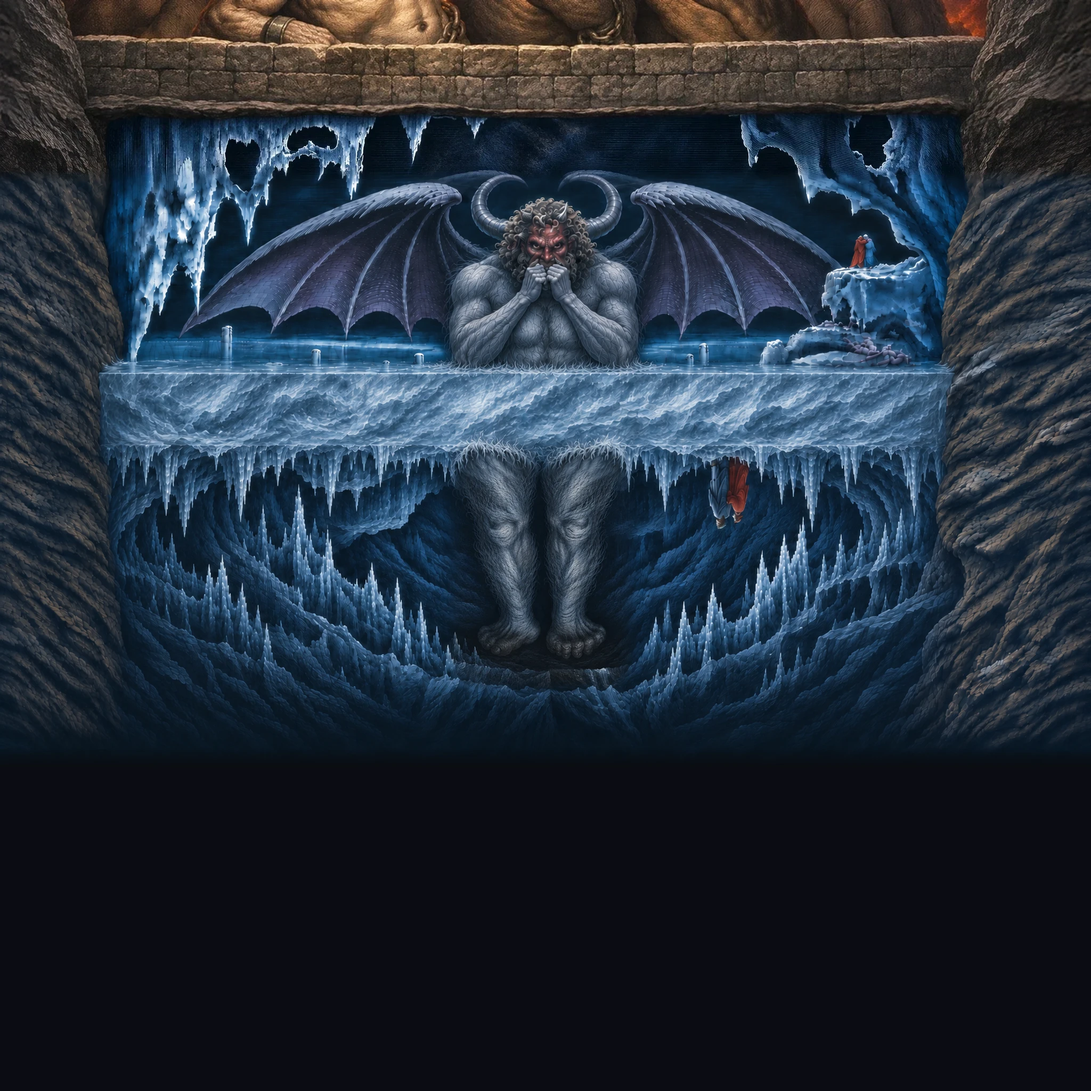
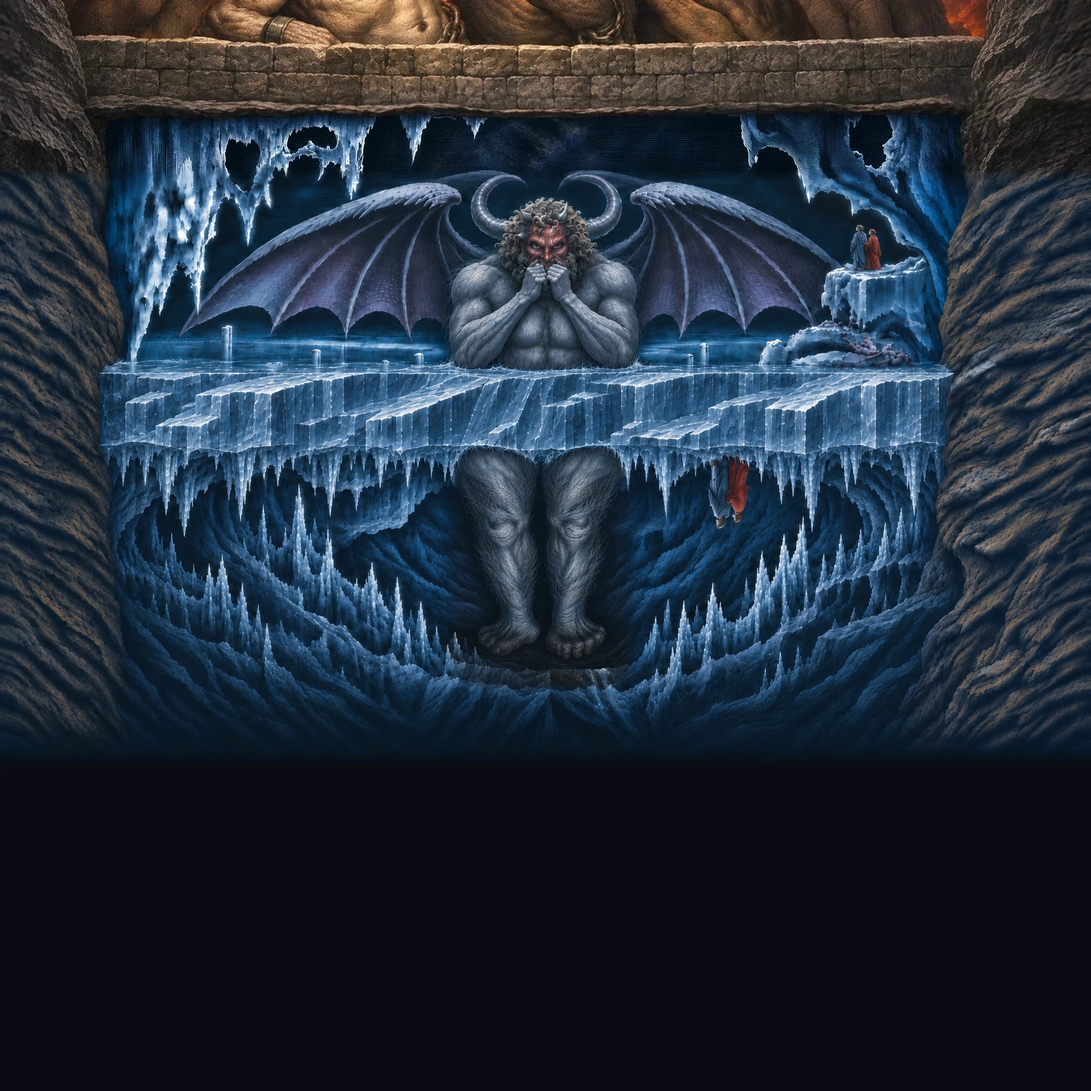
Sharpen the turn at the center: block ice, later zoom, staged loading
The view now waits a quarter of a screen past the foot of Hell, closes in,
goes down Lucifer's body and only then rolls over. The under-ice picture is
redrawn at twice the size with ice in angular blocks, and Dante and Virgil
face Lucifer. Only the map of Hell loads with the page; the other paintings
follow, with smaller copies on narrow screens.

diff --git a/src/components/JourneyScroller.tsx b/src/components/JourneyScroller.tsx
@@ -43,21 +43,23 @@ interface Measures {
     under: { left: number; top: number; width: number };
     /** How far the view moves from Lucifer to his legs in that picture */
     sink: { x: number; y: number };
-    /** How much larger his legs are in that picture than in the cavern at rest */
+    /** How far the view closes in on him */
+    closeUp: number;
+    /** How much larger his legs then are than in the cavern at rest */
     near: number;
   } | null;
 }
 
-/** How much larger Lucifer's legs are in the cavern than he is on the map of Hell */
-const CLOSE_UP = 3.2;
 /** Where the middle of his legs is in the picture of the cavern, as a share of its height, and how wide the pair is, as a share of its width */
 const LEGS = { middle: 0.812, width: 0.2344 };
 /** The same in the picture of him above and below the ice, which is square */
 const UNDER_ICE = { x: 0.4987, y: 0.5026, width: 0.1219 };
-/** How much closer the view presses in halfway through the roll, so the turning picture fills it */
-const ROLL_IN = 0.8;
+/** How wide the picture of him above and below the ice is when the view has closed in, in view heights */
+const CLOSE_UP = 3.2;
 /** The turn's three moves, as shares of its scroll: closing in, sinking under the ice, rolling over */
 const MOVES = { zoom: 0.3, dive: 0.62 };
+/** The scroll the turn takes up, and how far past the foot of Hell the page scrolls before it begins, in view heights */
+const TURN = { length: 2.2, pause: 0.25 };
 const ease = (t: number) => t * t * (3 - 2 * t);
 const clamp = (n: number, low: number, high: number) => Math.min(Math.max(n, low), high);
 
@@ -118,7 +120,9 @@ export default function JourneyScroller({ start, descent, climb, underIce: under
     else if (p > m.down) y = -m.down;
     world.current.style.transform = `translate3d(0, ${y}px, 0)`;
 
-    const t = m.across ? clamp((p - m.down) / m.across, 0, 1) : 1;
+    // The turn waits until the page is a little past the foot of Hell
+    const wait = m.turn ? m.view * TURN.pause : 0;
+    const t = m.across ? clamp((p - m.down - wait) / (m.across - wait), 0, 1) : 1;
     const hell = descentLeg.current;
     const rest = climbLeg.current;
     if (!hell || !rest) return;
@@ -139,25 +143,29 @@ export default function JourneyScroller({ start, descent, climb, underIce: under
       // The turn at the center of the earth, in three moves. The view closes in on Lucifer. It sinks
       // through the ice, and under it his legs hang down: the cavern, upside down, as it is seen
       // from Hell. Then the view rolls over about his legs, as Virgil does, and down becomes up.
-      const { lucifer, legs, under, sink: to, near } = m.turn;
+      const { lucifer, legs, under, sink: to, closeUp, near } = m.turn;
       const zoom = ease(clamp(t / MOVES.zoom, 0, 1));
       const sink = ease(clamp((t - MOVES.zoom) / (MOVES.dive - MOVES.zoom), 0, 1));
       const roll = ease(clamp((t - MOVES.dive) / (1 - MOVES.dive), 0, 1));
-      const scale = 1 + (CLOSE_UP - 1) * zoom;
+      const scale = 1 + (closeUp - 1) * zoom;
       const about = (point: { x: number; y: number }, what: string) =>
         `translate(${point.x}px, ${point.y}px) ${what} translate(${-point.x}px, ${-point.y}px)`;
       const moved = `translate(${-to.x * sink}px, ${-to.y * sink}px)`;
       const turned = `rotate(${180 * roll}deg)`;
       // The cavern's size through the roll: as large as the legs under the ice at first, its own at the end
-      const size = (near + (1 - near) * roll) * (1 + ROLL_IN * Math.sin(Math.PI * roll));
+      const size = near + (1 - near) * roll;
       const swap = ease(clamp((roll - 0.25) / 0.5, 0, 1));
       const still = t === 0 || t === 1;
-      show(hell, 1 - ease(clamp(roll / 0.3, 0, 1)), still ? '' : `${about(legs, turned)} ${moved} ${about(lucifer, `scale(${scale})`)}`);
+      // Hell is gone by the time the view is under the ice, so only the cavern turns
+      show(hell, 1 - ease(clamp((sink - 0.55) / 0.4, 0, 1)), still ? '' : `${about(legs, turned)} ${moved} ${about(lucifer, `scale(${scale})`)}`);
       show(rest, roll === 0 ? 0 : swap, still ? '' : about(legs.inClimb, `rotate(${180 + 180 * roll}deg) scale(${size})`));
       if (underIce.current) {
         // One picture carries the view from Lucifer down through the ice to his legs, then turns with it
         const shown = t === 1 ? 0 : ease(clamp((zoom - 0.7) / 0.3, 0, 1)) * (1 - swap);
         underIce.current.style.width = `${under.width}px`;
+        // Its top edge, where the giants stand over the lake, fades away on the way down
+        const faded = `linear-gradient(to right, transparent, black 5%, black 95%, transparent), linear-gradient(to bottom, transparent ${24 * sink}%, black ${34 * sink}%, black 94%, transparent)`;
+        underIce.current.style.maskImage = sink === 0 ? '' : faded;
         show(underIce.current, shown, `${about(legs, `${turned} scale(${size / near})`)} ${moved} translate(${under.left}px, ${under.top}px)`);
       }
       // A sharper picture of Lucifer comes in over the map as the view closes in on him
@@ -165,8 +173,9 @@ export default function JourneyScroller({ start, descent, climb, underIce: under
     }
     // The words beside the pictures step aside while the view turns
     world.current.toggleAttribute('data-turning', !!m.turn && t > 0.04 && t < 0.97);
-    const paradiso = stopAt('paradiso');
-    setCurrent(p < m.down + m.across / 2 ? 'inferno' : p < paradiso - m.view / 3 ? 'purgatorio' : 'paradiso');
+    // Mid-turn the legs are turned over and can't be measured: the realm changes halfway through
+    if (t > 0 && t < 1) setCurrent(t < 0.5 ? 'inferno' : 'purgatorio');
+    else setCurrent(t === 0 ? 'inferno' : p < stopAt('paradiso') - m.view / 3 ? 'purgatorio' : 'paradiso');
   }, [progress, stopAt]);
 
   const measure = useCallback(() => {
@@ -201,16 +210,19 @@ export default function JourneyScroller({ start, descent, climb, underIce: under
       const sceneEl = hellLeg.querySelector('[data-closeup]');
       const scene = sceneEl ? within(hellLeg, sceneEl) : null;
       if (scene) {
+        // Close enough that he is taller than the view, so the way down his body is a journey
+        const closeUp = (CLOSE_UP * view) / scene.width;
         const under = {
-          left: lucifer.x + CLOSE_UP * (scene.left - lucifer.x),
-          top: lucifer.y + CLOSE_UP * (scene.top - lucifer.y),
-          width: CLOSE_UP * scene.width,
+          left: lucifer.x + closeUp * (scene.left - lucifer.x),
+          top: lucifer.y + closeUp * (scene.top - lucifer.y),
+          width: closeUp * scene.width,
         };
         turn = {
           lucifer,
           legs,
           under,
           sink: { x: under.left + under.width * UNDER_ICE.x - legs.x, y: under.top + under.width * UNDER_ICE.y - legs.y },
+          closeUp,
           near: (under.width * UNDER_ICE.width) / (cavern.width * LEGS.width),
         };
       }
@@ -218,7 +230,7 @@ export default function JourneyScroller({ start, descent, climb, underIce: under
     measures.current = {
       view,
       down: Math.max(0, hell - view),
-      across: Math.round(view * (turn ? 2.2 : 0.9)),
+      across: Math.round(view * (turn ? TURN.length + TURN.pause : 0.9)),
       up: Math.max(0, rest - view),
       turn,
     };
@@ -262,6 +274,29 @@ export default function JourneyScroller({ start, descent, climb, underIce: under
       for (const type of ['wheel', 'touchstart', 'keydown', 'pointerdown']) window.removeEventListener(type, onTouch);
     };
   }, [measure, open, place]);
+
+  // Only the map of Hell comes with the page. The other paintings are fetched once it is in, or as
+  // soon as the visitor moves; narrow screens get smaller copies and skip the pictures of the turn.
+  useEffect(() => {
+    const fetchLater = () => {
+      const wide = window.matchMedia('(min-width: 1280px)').matches;
+      world.current?.querySelectorAll('[data-later]').forEach(el => {
+        if (el.hasAttribute('data-later-wide') && !wide) return;
+        const src = (!wide && el.getAttribute('data-later-small')) || el.getAttribute('data-later');
+        if (src) el.setAttribute(el instanceof HTMLImageElement ? 'src' : 'href', src);
+        el.removeAttribute('data-later');
+      });
+    };
+    window.addEventListener('resize', fetchLater);
+    if (start !== 'inferno' || document.readyState === 'complete') fetchLater();
+    else {
+      window.addEventListener('load', fetchLater, { once: true });
+      window.addEventListener('scroll', fetchLater, { once: true, passive: true });
+    }
+    return () => {
+      for (const type of ['resize', 'load', 'scroll']) window.removeEventListener(type, fetchLater);
+    };
+  }, [start]);
 
   /** A link to a level on this page travels there, in place of the browser's own jump */
   const onClick = (event: React.MouseEvent) => {
@@ -321,10 +356,11 @@ export default function JourneyScroller({ start, descent, climb, underIce: under
           {underIceSrc && (
             <img
               ref={underIce}
-              src={underIceSrc}
+              data-later={underIceSrc}
+              data-later-wide
               alt=""
               aria-hidden="true"
-              className="pointer-events-none invisible absolute top-0 left-0 max-w-none origin-top-left [mask-composite:intersect] [mask-image:linear-gradient(to_right,transparent,black_5%,black_95%,transparent),linear-gradient(to_bottom,black_86%,transparent)]"
+              className="pointer-events-none invisible absolute top-0 left-0 max-w-none origin-top-left [mask-composite:intersect] [mask-image:linear-gradient(to_right,transparent,black_5%,black_95%,transparent),linear-gradient(to_bottom,black_94%,transparent)]"
             />
           )}
         </div>

diff --git a/src/components/PaintedMap.tsx b/src/components/PaintedMap.tsx
@@ -27,6 +27,10 @@ interface PaintedMapProps {
   feather?: number;
   /** The painting, 1024 by 2048 */
   painting: string;
+  /** A smaller copy of the painting for narrow screens, used only with `later` */
+  small?: string;
+  /** Leave the painting for the page to fetch once its first picture is in: see JourneyScroller */
+  later?: boolean;
   /** The color behind the names, close to the painting's darkest tone */
   ground: string;
 }
@@ -34,7 +38,7 @@ interface PaintedMapProps {
 /** How much wider the whole map is than its painting */
 export const PAINTED_MAP_WIDTH_RATIO = W / PAINTING.width;
 
-export default function PaintedMap({ label, word, levels, outlines, feather = 1, painting, ground }: PaintedMapProps) {
+export default function PaintedMap({ label, word, levels, outlines, feather = 1, painting, small, later, ground }: PaintedMapProps) {
   const { width, height } = PAINTING;
   const slug = label.replace(/\W+/g, '-').toLowerCase();
   const fade = `${slug}-edge`;
@@ -56,7 +60,14 @@ export default function PaintedMap({ label, word, levels, outlines, feather = 1,
         </defs>
 
         <g aria-hidden="true">
-          <image href={painting} width={width} height={height} preserveAspectRatio="none" />
+          <image
+            href={later ? undefined : painting}
+            data-later={later ? painting : undefined}
+            data-later-small={later ? small : undefined}
+            width={width}
+            height={height}
+            preserveAspectRatio="none"
+          />
           <rect className="xl:hidden" x={width - 110} width="111" height={height} fill={`url(#${fade})`} />
         </g>
 

diff --git a/src/components/JourneyMapPage.tsx b/src/components/JourneyMapPage.tsx
@@ -61,6 +61,8 @@ export default function JourneyMapPage({ start }: { start: 'inferno' | 'purgator
             outlines={getMapOutlines('paradiso')}
             feather={14}
             painting="/images-map/paradiso-dore-2x.webp"
+            small="/images-map/paradiso-dore-1x.webp"
+            later
             ground="hsl(222 40% 14%)"
           />
         </MapBlock>
@@ -119,6 +121,8 @@ export default function JourneyMapPage({ start }: { start: 'inferno' | 'purgator
               levels={purgatorio}
               outlines={getMapOutlines('purgatorio')}
               painting="/images-map/purgatorio-dore-2x.webp"
+              small="/images-map/purgatorio-dore-1x.webp"
+              later
               ground="hsl(222 34% 13%)"
             />
           </MapBlock>
@@ -169,7 +173,7 @@ export default function JourneyMapPage({ start }: { start: 'inferno' | 'purgator
     <div className="min-h-screen bg-background">
       <Navigation />
       <main>
-        <JourneyScroller start={start} descent={descent} climb={climb} underIce="/images-map/inferno-under-ice.webp" />
+        <JourneyScroller start={start} descent={descent} climb={climb} underIce="/images-map/inferno-under-ice-2x.webp" />
       </main>
     </div>
   );

diff --git a/src/components/InfernoMap.tsx b/src/components/InfernoMap.tsx
@@ -803,7 +803,8 @@ export default function InfernoMap({ levels, painting, outlines, closeup }: Infe
                 </defs>
                 <image
                   data-closeup
-                  href={closeup}
+                  data-later={closeup}
+                  data-later-wide
                   x={CLOSEUP.x * k}
                   y={CLOSEUP.y * k}
                   width={CLOSEUP.width * k}
